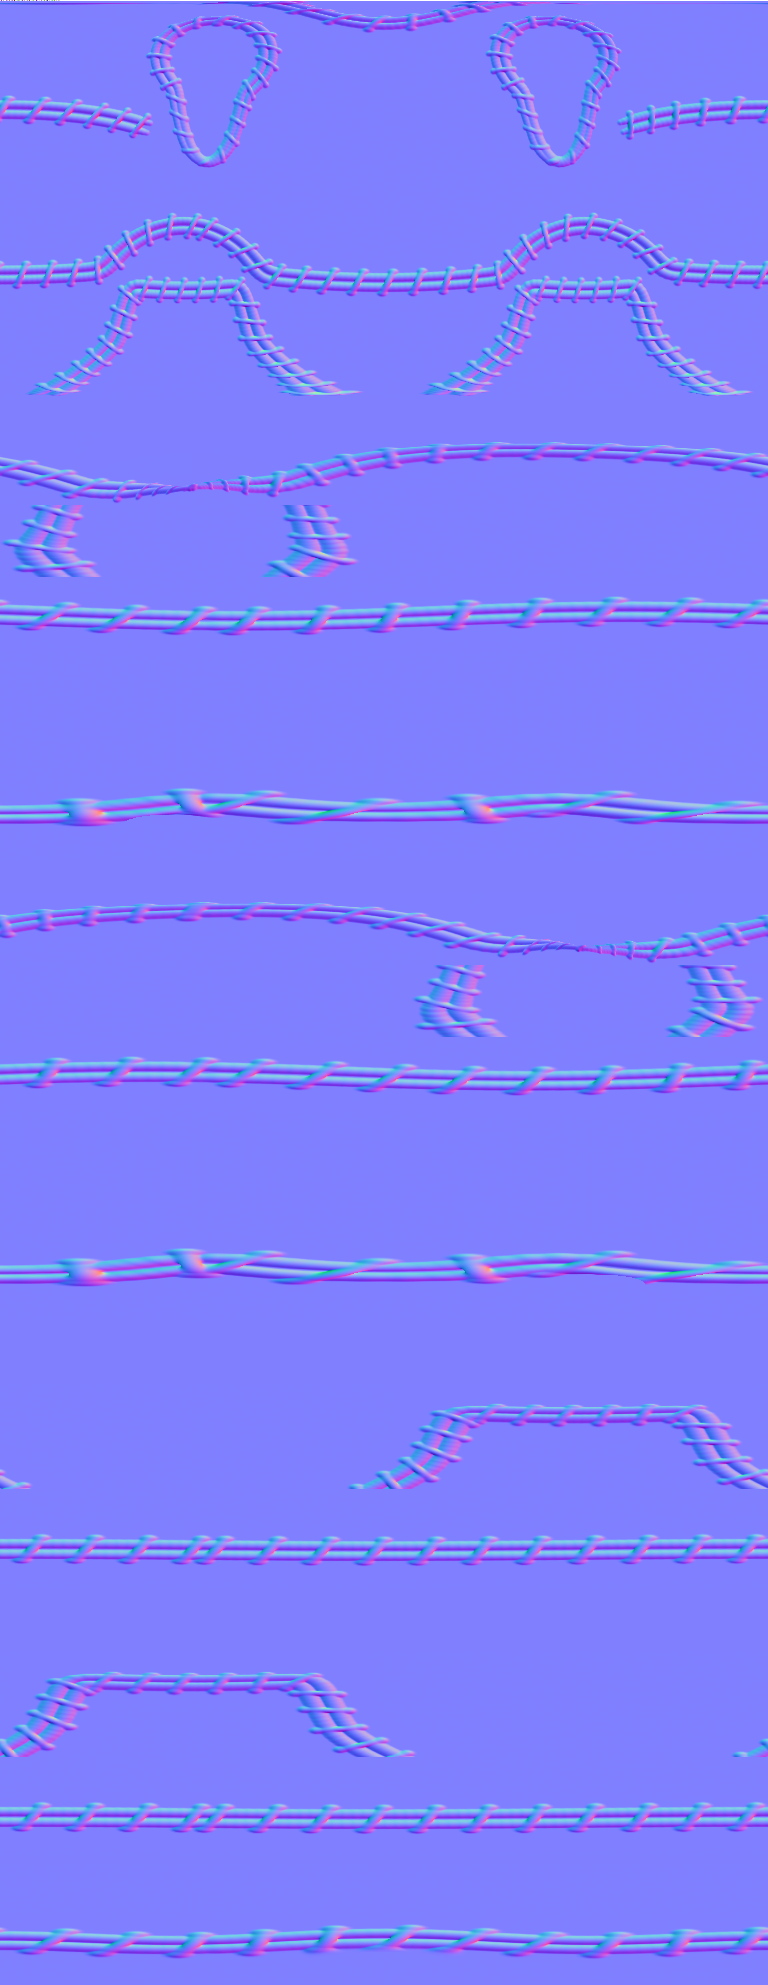
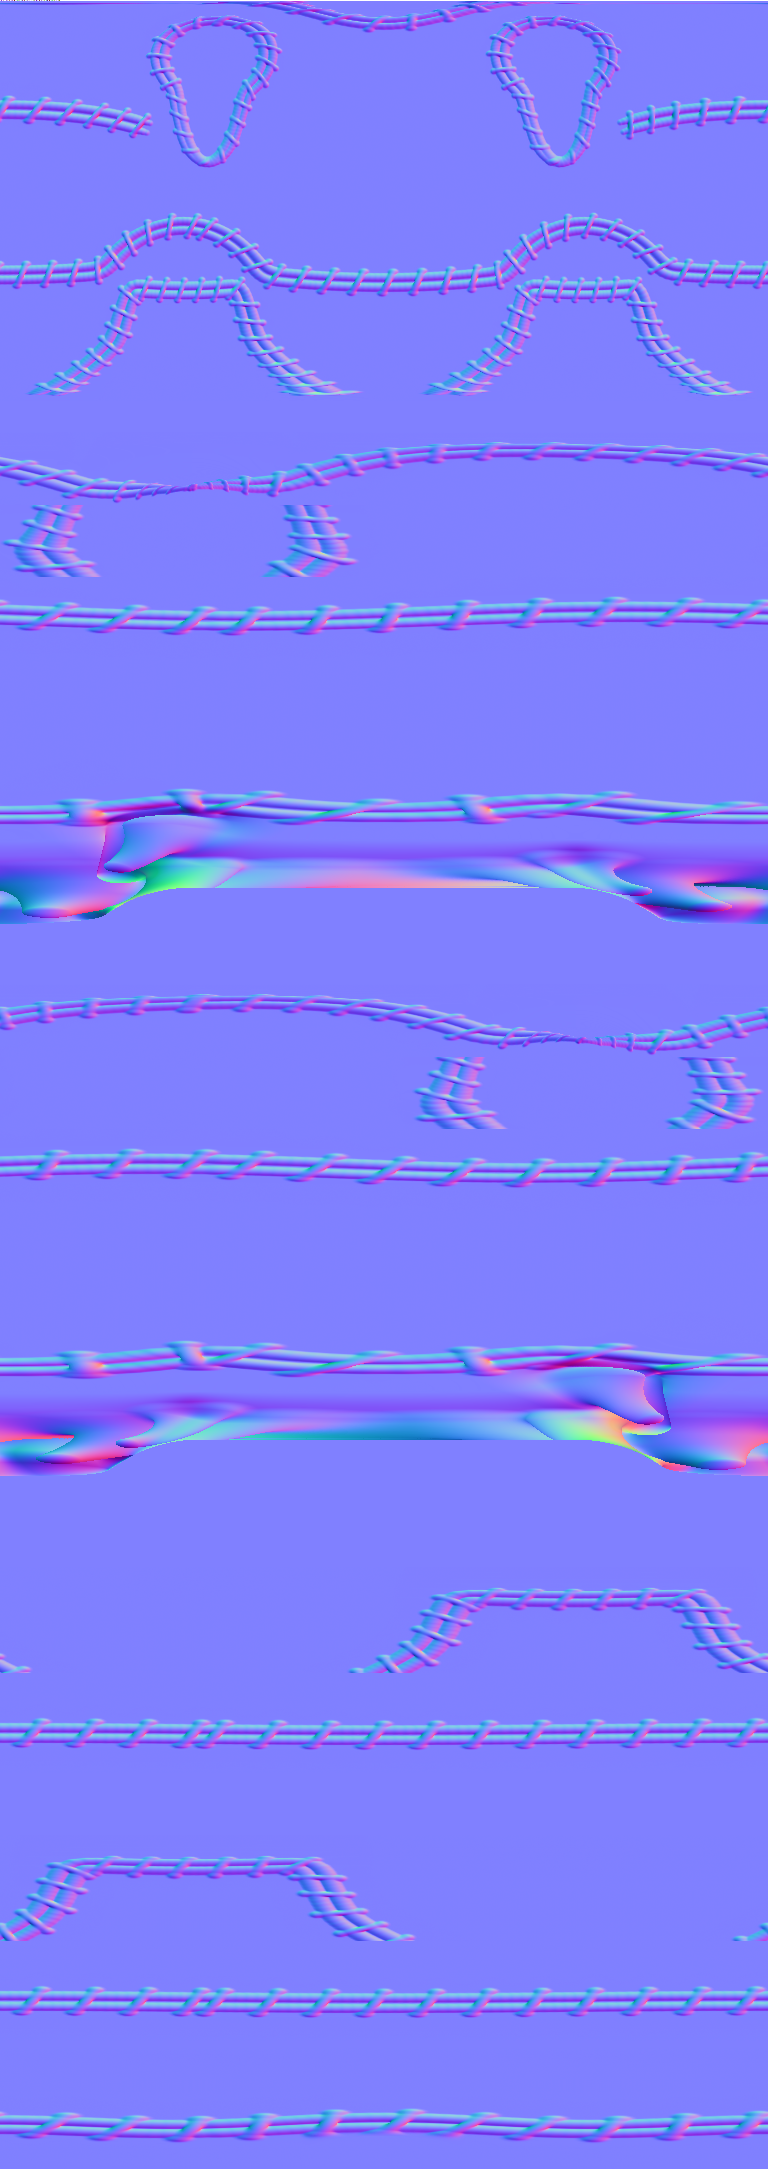
wip(zombie): mitten-hand trial (lodAlways far; curled fingers baked into the body normal map over the hand)

diff --git a/scripts/zombie-detail-gen.ts b/scripts/zombie-detail-gen.ts
@@ -5,14 +5,15 @@
 // nothing here is ever raymarched, so the stitches are free at runtime).
 //
 //   npx tsx scripts/zombie-detail-gen.ts && npx tsx scripts/bake-body-normal.ts zombie 768 400 \
-//     --limb clavicle.l:0.3:1.1:0.12:104 --limb upperArm.l:-0.05:0.3:0.10:72 --limb foreArm.l:-0.15:1.25:0.10:284 \
-//     --limb clavicle.r:0.3:1.1:0.12:104 --limb upperArm.r:-0.05:0.3:0.10:72 --limb foreArm.r:-0.15:1.25:0.10:284 \
+//     --limb clavicle.l:0.3:1.1:0.12:104 --limb upperArm.l:-0.05:0.3:0.10:72 --limb foreArm.l:-0.15:1.70:0.10:376 \
+//     --limb clavicle.r:0.3:1.1:0.12:104 --limb upperArm.r:-0.05:0.3:0.10:72 --limb foreArm.r:-0.15:1.70:0.10:376 \
 //     --limb thigh.l:-0.2:0.35:0.14:168 --limb shin.l:-0.15:0.15:0.11:100 \
 //     --limb thigh.r:-0.2:0.35:0.14:168 --limb shin.r:-0.15:0.15:0.11:100 --limb neck:-0.3:0.9:0.09:128
 //   (about 30 s on the GPU; run `npm install` first if it says it is baking on the CPU). The limb regions are BANDS
 //   round the seams only: a hit no region claims (mid upper arm, mid shin) simply wears no map. The foreArm region
-//   carries both the elbow (t < 0 reaches back over the upper arm's end; same cluster) and the wrist, and runs
-//   past the hand (its sphere ends at t ~1.21) so both sides of the wrist suture wear it; the shin
+//   carries both the elbow (t < 0 reaches back over the upper arm's end; same cluster) and the wrist, and runs on
+//   over the whole HAND to t 1.70 (2026-11-22): the zombie draws a mitten (lod=far) and the bake folds its curled
+//   fingers (lod=near) into the map as the detail (body-normal-bake/regions.ts bakeBodies); the shin
 //   region carries the knee from both sides the same way. Texels are ~1-1.6 mm.
 //
 // THE TEMPLATE is scripts/twinhead-detail-gen.ts (probe the skin, sit each element a set number of mm proud, bind it

diff --git a/src/lab/sdf-zombie/character-registry.ts b/src/lab/sdf-zombie/character-registry.ts
@@ -97,6 +97,10 @@ export interface CharacterEntry {
    *  tooth row knocks it out (webgpu/kit-damage.ts). Implied by `armoured`. Absent: the kit stays on the bones, which
    *  characters/kit-sheds.test.ts allows no kit. */
   kitSheds?: boolean;
+  /** DISTANCE LOD OVERRIDE (PrimDef.lod): 'far' draws the `lod=far` set at every distance -- the zombie's MITTEN hand,
+   *  its fingers baked into the body normal map (the bake takes the far set as the plain skin and the `lod=near`
+   *  set as the detail: body-normal-bake/regions.ts bakeBodies). Absent: the sticky screen-size switch (lod.ts). */
+  lodAlways?: 'far';
   /** The face sheet the character wears when its own `sheet` block does not
    *  produce one — its baked PNG where it has one (the sheet block's `image`
    *  line names the same file), else the shared zombie flat. Multiplier-vs-
@@ -168,6 +172,10 @@ export const CHARACTERS: Readonly<Record<string, CharacterEntry>> = {
     // from scripts/zombie-detail-gen.ts; baked, never marched). They sit on the lines where the skin noise tears in
     // motion (the dominant prim flips there; the generator's header has the probe), so the tear reads as the seam.
     bodyNormal: { url: '/assets/lab/zombie-body-n.png', meta: '/assets/lab/zombie-body-n.json', strength: 1 },
+    // The MITTEN hand (owner, 2026-11-22: "try the mitten hand with a normal map"): the zombie always draws its
+    // lod=far hand -- palm, one finger-mass capsule, thumb -- and its curled lod=near fingers live only in the normal
+    // map (the foreArm region runs over the hand; scripts/zombie-detail-gen.ts has the bake command).
+    lodAlways: 'far',
     profile: ZOMBIE_PROFILE,
   },
   goblin: {

diff --git a/src/lab/sdf-zombie/body-normal-bake/regions.ts b/src/lab/sdf-zombie/body-normal-bake/regions.ts
@@ -41,7 +41,18 @@ export function buildFromBlob(src: string): Body { const doc = parseBlob(src); r
 
 /** The plain body and the detailed body, both at rest. */
 export function bakeBodies(blobSrc: string, detailSrc: string, name: string): { base: Body; detail: Body } {
-  return { base: buildFromBlob(blobSrc), detail: buildFromBlob(withDetail(blobSrc, detailSrc, name)) };
+  return { base: lodSet(buildFromBlob(blobSrc), 'far'), detail: lodSet(buildFromBlob(withDetail(blobSrc, detailSrc, name)), 'near') };
+}
+
+/**
+ * DISTANCE LOD IN THE BAKE (PrimDef.lod; the zombie's mitten hand, 2026-11-22). The plain skin is the `lod=far` set
+ * (the cheap stand-in the game draws), the detailed skin the `lod=near` set (the fingers): each texel's ray meets the
+ * mitten and the nearest finger, so the map shades the grooves between fingers onto the mitten. A body with no lod
+ * prims is returned as built.
+ */
+export function lodSet(body: Body, keep: 'near' | 'far'): Body {
+  if (!body.prims.some(p => p.lod !== undefined)) return body;
+  return { ...body, prims: body.prims.map(p => (p.lod === undefined ? p : { ...p, dead: p.lod !== keep })) };
 }
 
 export interface Region { label: string; limb: string; head: V; tail: V; rMax: number; rows: number; kind: 0 | 1; r0: number; row0: number }

diff --git a/src/lab/sdf-zombie/webgpu/game-tick.ts b/src/lab/sdf-zombie/webgpu/game-tick.ts
@@ -8,6 +8,7 @@
 // Plan: docs/superpowers/plans/2026-09-17-game-main-decomposition.md
 
 import { withCtx, type GameContext } from './game-context';
+import { characterEntry, hasCharacter } from '../character-registry';
 import { detailFarSticky, screenHeightPx } from '../lod';
 import * as THREE from 'three/webgpu';
 import { woundEmitAnchorAndNormal } from '../bleed-registry';
@@ -507,7 +508,8 @@ export function tick(ctx: GameContext, dt: number) {
         const cam = ctx.boot.handle.camera;
         const pos = a.pose().pos;
         const dist = Math.hypot(cam.position.x - pos[0], cam.position.y - (pos[1] + 1), cam.position.z - pos[2]);
-        const far = detailFarSticky(screenHeightPx(1.8, dist, cam.fov, innerHeight), lodFarOf.get(a.id) ?? false);
+        const always = hasCharacter(a.characterName()) ? characterEntry(a.characterName()).lodAlways : undefined;
+        const far = always === 'far' || detailFarSticky(screenHeightPx(1.8, dist, cam.fov, innerHeight), lodFarOf.get(a.id) ?? false);
         lodFarOf.set(a.id, far);
         a.view.setLodFar(far);
       }
